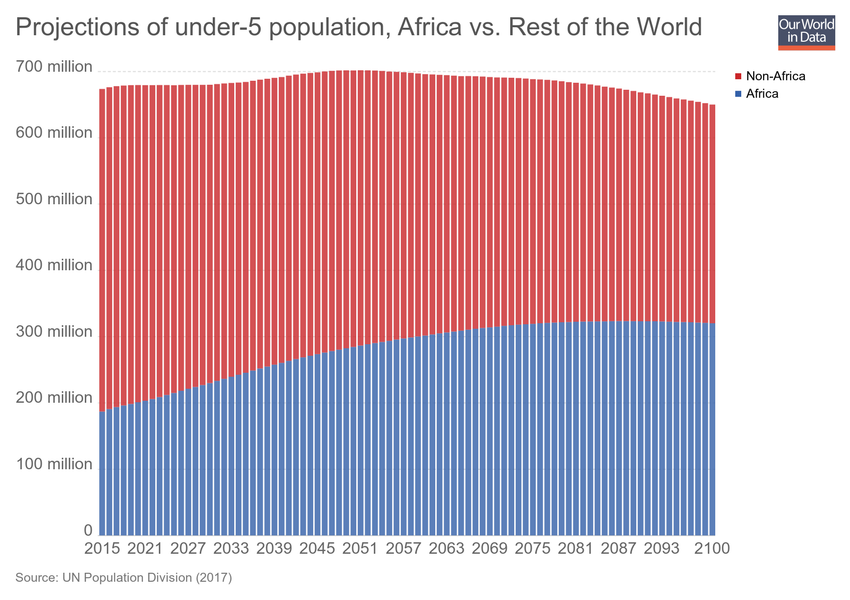
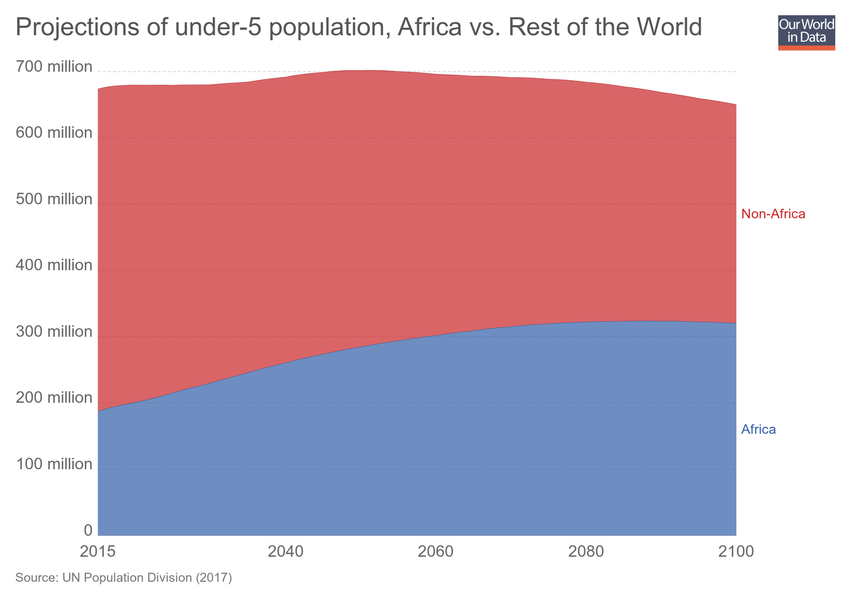
Updating chart projection-under5s-africa-vs-world

diff --git a/grapher/hiv-expenditure.html b/grapher/hiv-expenditure.html
@@ -1,4 +1,4 @@
-<!doctype html><html><head><meta name="viewport" content="width=device-width, initial-scale=1" /><title>HIV expenditure on prevention and treatment - Our World in Data</title><meta name="description" content="Total expenditure on HIV/AIDS prevention and treatment, measured in US$." /><link rel="canonical" href="https://ourworldindata.org/grapher/hiv-expenditure" /><meta property="fb:app_id" content="1149943818390250" /><meta property="og:url" content="https://ourworldindata.org/grapher/hiv-expenditure" /><meta property="og:title" content="HIV expenditure on prevention and treatment" /><meta property="og:description" content="Total expenditure on HIV/AIDS prevention and treatment, measured in US$." /><meta property="og:image" content="https://ourworldindata.org/grapher/exports/hiv-expenditure.png?v=1" /><meta property="og:image:width" content="850" /><meta property="og:image:height" content="600" /><meta property="og:site_name" content="Our World in Data" /><meta name="twitter:card" content="summary_large_image" /><meta name="twitter:site" content="@OurWorldInData" /><meta name="twitter:creator" content="@OurWorldInData" /><meta name="twitter:title" content="HIV expenditure on prevention and treatment" /><meta name="twitter:description" content="Total expenditure on HIV/AIDS prevention and treatment, measured in US$." /><meta name="twitter:image" content="https://ourworldindata.org/grapher/exports/hiv-expenditure.png?v=1" /><style>
+<!doctype html><html><head><meta name="viewport" content="width=device-width, initial-scale=1" /><title>HIV expenditure - Our World in Data</title><meta name="description" content="Country-reported HIV expenditure, measured in current US$ per year. The year of reported expenditure varies by country; this information can be found by hovering over a given country." /><link rel="canonical" href="https://ourworldindata.org/grapher/hiv-expenditure" /><meta property="fb:app_id" content="1149943818390250" /><meta property="og:url" content="https://ourworldindata.org/grapher/hiv-expenditure" /><meta property="og:title" content="HIV expenditure" /><meta property="og:description" content="Country-reported HIV expenditure, measured in current US$ per year. The year of reported expenditure varies by country; this information can be found by hovering over a given country." /><meta property="og:image" content="https://ourworldindata.org/grapher/exports/hiv-expenditure.png?v=1" /><meta property="og:image:width" content="850" /><meta property="og:image:height" content="600" /><meta property="og:site_name" content="Our World in Data" /><meta name="twitter:card" content="summary_large_image" /><meta name="twitter:site" content="@OurWorldInData" /><meta name="twitter:creator" content="@OurWorldInData" /><meta name="twitter:title" content="HIV expenditure" /><meta name="twitter:description" content="Country-reported HIV expenditure, measured in current US$ per year. The year of reported expenditure varies by country; this information can be found by hovering over a given country." /><meta name="twitter:image" content="https://ourworldindata.org/grapher/exports/hiv-expenditure.png?v=1" /><style>
         html, body {
             height: 100%;
             margin: 0;
@@ -20,19 +20,8 @@
         }
     </style><noscript><style>
                     figure { display: none !important; }
-                </style></noscript><link rel="stylesheet" href="https://ourworldindata.org/grapher/assets/commons.bundle.0cade97703a5a10acaac.css" /><link rel="preload" href="/grapher/data/variables/96328.json?v=1" as="fetch" crossorigin /></head><body class="singleChart"><figure data-grapher-src="/grapher/hiv-expenditure"></figure><noscript id="fallback"><img src="/grapher/exports/hiv-expenditure.svg" /><p>Interactive visualization requires JavaScript</p></noscript><script src="https://cdn.polyfill.io/v2/polyfill.min.js?features=es6,fetch"></script><script src="https://ourworldindata.org/grapher/assets/commons.bundle.0cade97703a5a10acaac.js"></script><script src="https://ourworldindata.org/grapher/assets/charts.bundle.0cade97703a5a10acaac.js"></script><script>
-        var jsonConfig = {"map":{"projection":"World","targetYear":2015,"variableId":96328,"timeTolerance":3,"baseColorScheme":"YlGnBu","isManualBuckets":true,"colorSchemeLabels":[],"colorSchemeValues":[50000000,100000000,150000000,200000000,250000000,300000000,350000000,400000000],"defaultProjection":"World","colorSchemeMinValue":0,"customNumericColors":[null,null],"customCategoryColors":{},"customCategoryLabels":{},"customHiddenCategories":{}},"tab":"map","slug":"hiv-expenditure","type":"LineChart","title":"HIV expenditure on prevention and treatment","xAxis":{"scaleType":"linear"},"yAxis":{"min":0,"scaleType":"linear"},"version":1,"subtitle":"Total expenditure on HIV/AIDS prevention and treatment, measured in US$.","hasMapTab":true,"stackMode":"absolute","dimensions":[{"display":{"shortUnit":"$"},"property":"y","variableId":96328}],"hasChartTab":true,"isPublished":true,"selectedData":[{"index":0,"entityId":123},{"index":0,"entityId":237},{"index":0,"entityId":95}],"addCountryMode":"add-country","id":2488};
-        var figure = document.getElementsByTagName("figure")[0];
-        try {
-            window.App = {};
-            window.Global = { rootUrl: 'https://ourworldindata.org/grapher' };
-            ChartView.bootstrap({ jsonConfig: jsonConfig, containerNode: figure })
-        } catch (err) {
-            figure.innerHTML = "<img src=\"/grapher/exports/hiv-expenditure.svg\"/><p>Unable to load interactive visualization</p>";
-            figure.setAttribute("id", "fallback");
-            throw err;
-        }
-    </script></body></html>d":219},{"index":0,"entityId":23},{"index":0,"entityId":25},{"index":0,"entityId":26},{"index":0,"entityId":28},{"index":0,"entityId":29},{"index":0,"entityId":30},{"index":0,"entityId":4},{"index":0,"entityId":31},{"index":0,"entityId":32},{"index":0,"entityId":34},{"index":0,"entityId":35},{"index":0,"entityId":36},{"index":0,"entityId":37},{"index":0,"entityId":39},{"index":0,"entityId":40},{"index":0,"entityId":41},{"index":0,"entityId":18581},{"index":0,"entityId":42},{"index":0,"entityId":43},{"index":0,"entityId":174},{"index":0,"entityId":173},{"index":0,"entityId":172},{"index":0,"entityId":171},{"index":0,"entityId":170},{"index":0,"entityId":169},{"index":0,"entityId":168},{"index":0,"entityId":166},{"index":0,"entityId":143}],"addCountryMode":"add-country","hideTitleAnnotation":true,"id":2293};
+                </style></noscript><link rel="stylesheet" href="https://ourworldindata.org/grapher/assets/commons.bundle.0cade97703a5a10acaac.css" /><link rel="preload" href="/grapher/data/variables/85855.json?v=1" as="fetch" crossorigin /></head><body class="singleChart"><figure data-grapher-src="/grapher/hiv-expenditure"></figure><noscript id="fallback"><img src="/grapher/exports/hiv-expenditure.svg" /><p>Interactive visualization requires JavaScript</p></noscript><script src="https://cdn.polyfill.io/v2/polyfill.min.js?features=es6,fetch"></script><script src="https://ourworldindata.org/grapher/assets/commons.bundle.0cade97703a5a10acaac.js"></script><script src="https://ourworldindata.org/grapher/assets/charts.bundle.0cade97703a5a10acaac.js"></script><script>
+        var jsonConfig = {"map":{"projection":"World","targetYear":2016,"variableId":85855,"equalSizeBins":true,"timeTolerance":5,"baseColorScheme":"Purples","isManualBuckets":true,"colorSchemeLabels":[],"colorSchemeValues":[50000000,100000000,200000000,300000000,400000000,500000000,750000000,1000000000],"defaultProjection":"World","colorSchemeMinValue":0,"customNumericColors":[null,null],"customCategoryColors":{},"customCategoryLabels":{},"customHiddenCategories":{}},"tab":"map","slug":"hiv-expenditure","type":"LineChart","title":"HIV expenditure","xAxis":{"scaleType":"linear"},"yAxis":{"min":0,"scaleType":"linear"},"version":1,"subtitle":"Country-reported HIV expenditure, measured in current US$ per year. The year of reported expenditure varies by country; this information can be found by hovering over a given country.","hasMapTab":true,"stackMode":"absolute","dimensions":[{"display":{},"property":"y","variableId":85855}],"isAutoSlug":true,"sourceDesc":"UNAIDS","hasChartTab":false,"isPublished":true,"selectedData":[{"index":0,"entityId":84},{"index":0,"entityId":233},{"index":0,"entityId":229},{"index":0,"entityId":15},{"index":0,"entityId":16},{"index":0,"entityId":17},{"index":0,"entityId":19},{"index":0,"entityId":20},{"index":0,"entityId":21},{"index":0,"entityId":22},{"index":0,"entityId":219},{"index":0,"entityId":23},{"index":0,"entityId":25},{"index":0,"entityId":26},{"index":0,"entityId":28},{"index":0,"entityId":29},{"index":0,"entityId":30},{"index":0,"entityId":4},{"index":0,"entityId":31},{"index":0,"entityId":32},{"index":0,"entityId":34},{"index":0,"entityId":35},{"index":0,"entityId":36},{"index":0,"entityId":37},{"index":0,"entityId":39},{"index":0,"entityId":40},{"index":0,"entityId":41},{"index":0,"entityId":18581},{"index":0,"entityId":42},{"index":0,"entityId":43},{"index":0,"entityId":174},{"index":0,"entityId":173},{"index":0,"entityId":172},{"index":0,"entityId":171},{"index":0,"entityId":170},{"index":0,"entityId":169},{"index":0,"entityId":168},{"index":0,"entityId":166},{"index":0,"entityId":143}],"addCountryMode":"add-country","hideTitleAnnotation":true,"id":2293};
         var figure = document.getElementsByTagName("figure")[0];
         try {
             window.App = {};

diff --git a/grapher/projection-under5s-africa-vs-world.html b/grapher/projection-under5s-africa-vs-world.html
@@ -1,4 +1,4 @@
-<!doctype html><html><head><meta name="viewport" content="width=device-width, initial-scale=1" /><title>Projections of under-5 population, Africa vs. Rest of the World - Our World in Data</title><meta name="description" content="An interactive visualization from Our World in Data." /><link rel="canonical" href="https://ourworldindata.org/grapher/projection-under5s-africa-vs-world" /><meta property="fb:app_id" content="1149943818390250" /><meta property="og:url" content="https://ourworldindata.org/grapher/projection-under5s-africa-vs-world" /><meta property="og:title" content="Projections of under-5 population, Africa vs. Rest of the World" /><meta property="og:description" content="An interactive visualization from Our World in Data." /><meta property="og:image" content="https://ourworldindata.org/grapher/exports/projection-under5s-africa-vs-world.png?v=2" /><meta property="og:image:width" content="850" /><meta property="og:image:height" content="600" /><meta property="og:site_name" content="Our World in Data" /><meta name="twitter:card" content="summary_large_image" /><meta name="twitter:site" content="@OurWorldInData" /><meta name="twitter:creator" content="@OurWorldInData" /><meta name="twitter:title" content="Projections of under-5 population, Africa vs. Rest of the World" /><meta name="twitter:description" content="An interactive visualization from Our World in Data." /><meta name="twitter:image" content="https://ourworldindata.org/grapher/exports/projection-under5s-africa-vs-world.png?v=2" /><style>
+<!doctype html><html><head><meta name="viewport" content="width=device-width, initial-scale=1" /><title>Projections of under-5 population, Africa vs. Rest of the World - Our World in Data</title><meta name="description" content="An interactive visualization from Our World in Data." /><link rel="canonical" href="https://ourworldindata.org/grapher/projection-under5s-africa-vs-world" /><meta property="fb:app_id" content="1149943818390250" /><meta property="og:url" content="https://ourworldindata.org/grapher/projection-under5s-africa-vs-world" /><meta property="og:title" content="Projections of under-5 population, Africa vs. Rest of the World" /><meta property="og:description" content="An interactive visualization from Our World in Data." /><meta property="og:image" content="https://ourworldindata.org/grapher/exports/projection-under5s-africa-vs-world.png?v=3" /><meta property="og:image:width" content="850" /><meta property="og:image:height" content="600" /><meta property="og:site_name" content="Our World in Data" /><meta name="twitter:card" content="summary_large_image" /><meta name="twitter:site" content="@OurWorldInData" /><meta name="twitter:creator" content="@OurWorldInData" /><meta name="twitter:title" content="Projections of under-5 population, Africa vs. Rest of the World" /><meta name="twitter:description" content="An interactive visualization from Our World in Data." /><meta name="twitter:image" content="https://ourworldindata.org/grapher/exports/projection-under5s-africa-vs-world.png?v=3" /><style>
         html, body {
             height: 100%;
             margin: 0;
@@ -20,8 +20,8 @@
         }
     </style><noscript><style>
                     figure { display: none !important; }
-                </style></noscript><link rel="stylesheet" href="https://ourworldindata.org/grapher/assets/commons.bundle.0cade97703a5a10acaac.css" /><link rel="preload" href="/grapher/data/variables/97473.json?v=2" as="fetch" crossorigin /></head><body class="singleChart"><figure data-grapher-src="/grapher/projection-under5s-africa-vs-world"></figure><noscript id="fallback"><img src="/grapher/exports/projection-under5s-africa-vs-world.svg" /><p>Interactive visualization requires JavaScript</p></noscript><script src="https://cdn.polyfill.io/v2/polyfill.min.js?features=es6,fetch"></script><script src="https://ourworldindata.org/grapher/assets/commons.bundle.0cade97703a5a10acaac.js"></script><script src="https://ourworldindata.org/grapher/assets/charts.bundle.0cade97703a5a10acaac.js"></script><script>
-        var jsonConfig = {"id":2936,"map":{"projection":"World","targetYear":2100,"variableId":97473,"colorSchemeLabels":[],"colorSchemeValues":[],"customNumericColors":[],"customCategoryColors":{},"customCategoryLabels":{},"customHiddenCategories":{}},"tab":"chart","slug":"projection-under5s-africa-vs-world","type":"StackedBar","title":"Projections of under-5 population, Africa vs. Rest of the World","xAxis":{"scaleType":"linear"},"yAxis":{"min":0,"scaleType":"linear"},"version":2,"hasMapTab":false,"stackMode":"absolute","dimensions":[{"display":{"unit":"under-5s"},"property":"y","variableId":97473}],"sourceDesc":"UN Population Division (2017)","hasChartTab":true,"isPublished":true,"selectedData":[{"color":"#ca2628","index":0,"entityId":37539},{"color":"#3360a9","index":0,"entityId":273}],"internalNotes":"Do not share at the moment","addCountryMode":"disabled"};
+                </style></noscript><link rel="stylesheet" href="https://ourworldindata.org/grapher/assets/commons.bundle.0cade97703a5a10acaac.css" /><link rel="preload" href="/grapher/data/variables/97473.json?v=3" as="fetch" crossorigin /></head><body class="singleChart"><figure data-grapher-src="/grapher/projection-under5s-africa-vs-world"></figure><noscript id="fallback"><img src="/grapher/exports/projection-under5s-africa-vs-world.svg" /><p>Interactive visualization requires JavaScript</p></noscript><script src="https://cdn.polyfill.io/v2/polyfill.min.js?features=es6,fetch"></script><script src="https://ourworldindata.org/grapher/assets/commons.bundle.0cade97703a5a10acaac.js"></script><script src="https://ourworldindata.org/grapher/assets/charts.bundle.0cade97703a5a10acaac.js"></script><script>
+        var jsonConfig = {"id":2936,"map":{"projection":"World","targetYear":2100,"variableId":97473,"colorSchemeLabels":[],"colorSchemeValues":[],"customNumericColors":[],"customCategoryColors":{},"customCategoryLabels":{},"customHiddenCategories":{}},"tab":"chart","slug":"projection-under5s-africa-vs-world","type":"StackedArea","title":"Projections of under-5 population, Africa vs. Rest of the World","xAxis":{"scaleType":"linear"},"yAxis":{"min":0,"scaleType":"linear"},"version":3,"hasMapTab":false,"stackMode":"absolute","dimensions":[{"display":{"unit":"under-5s"},"property":"y","variableId":97473}],"sourceDesc":"UN Population Division (2017)","hasChartTab":true,"isPublished":true,"selectedData":[{"color":"#ca2628","index":0,"entityId":37539},{"color":"#3360a9","index":0,"entityId":273}],"internalNotes":"Do not share at the moment","addCountryMode":"disabled"};
         var figure = document.getElementsByTagName("figure")[0];
         try {
             window.App = {};
